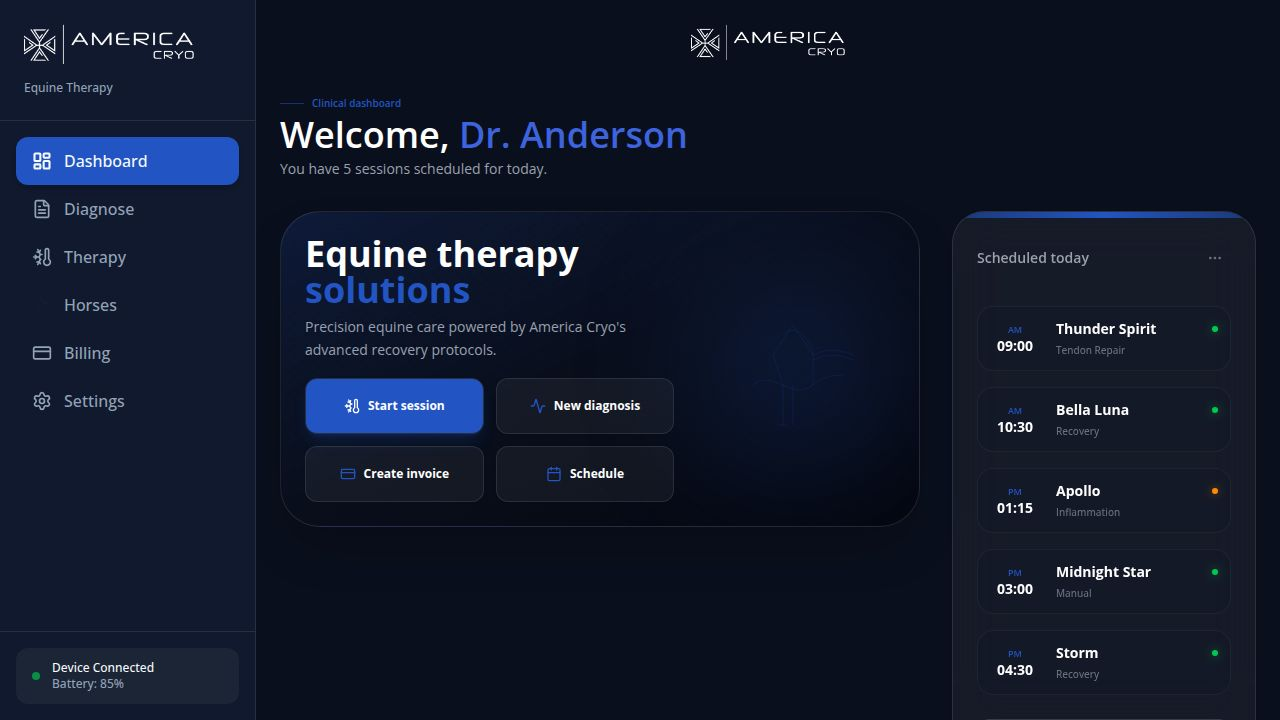
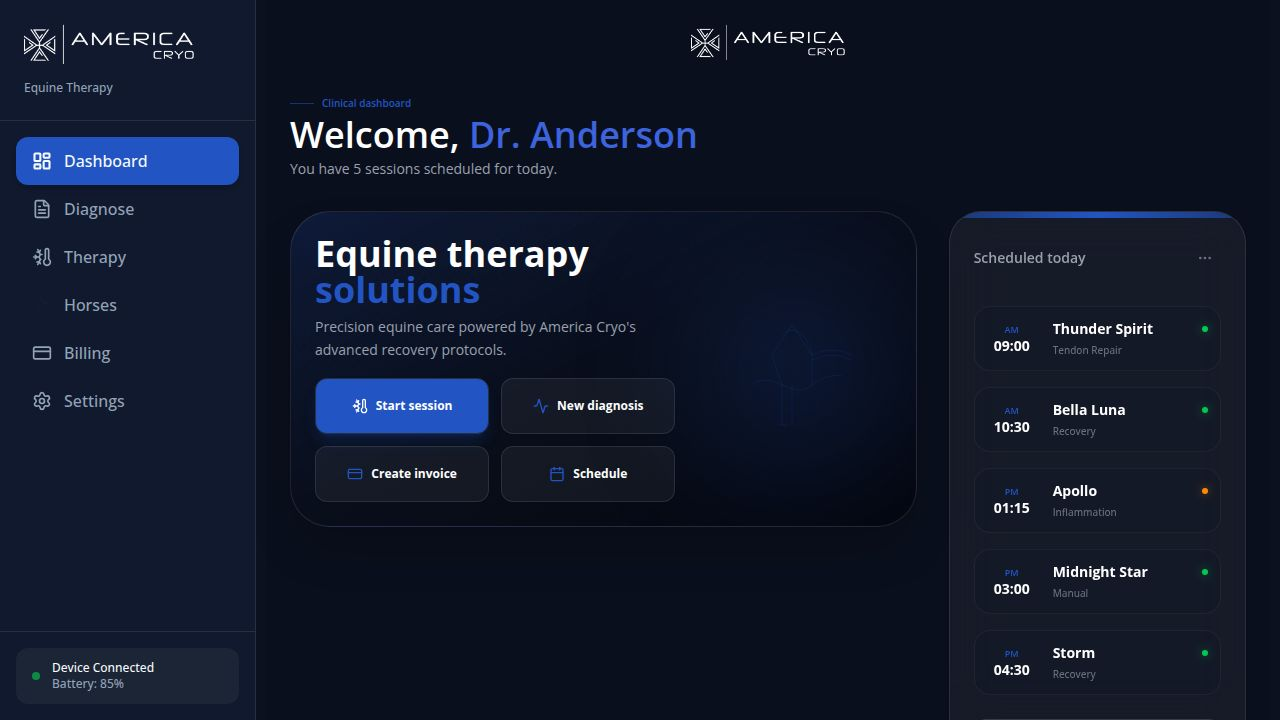
Add consistent horizontal padding to all pages
Adds 10px horizontal padding to the main content area in App.tsx, ensuring uniform spacing across the application.

Replit-Commit-Author: Agent
Replit-Commit-Session-Id: 04462519-4576-4063-832d-1647d48735ab
Replit-Commit-Checkpoint-Type: full_checkpoint
Replit-Commit-Event-Id: d5055585-73d3-4a6d-a6dc-1da9657f4b7e
Replit-Commit-Screenshot-Url: https://storage.googleapis.com/screenshot-production-us-central1/ae2f9a35-1080-45a9-9c55-8bf065662328/04462519-4576-4063-832d-1647d48735ab/FrzredX
Replit-Helium-Checkpoint-Created: true

diff --git a/client/src/App.tsx b/client/src/App.tsx
@@ -24,7 +24,7 @@ function Router() {
   return (
     <div className="flex h-screen bg-background flex-col md:flex-row overflow-hidden">
       <Sidebar />
-      <main className="flex-1 h-full overflow-y-auto overflow-x-hidden touch-pan-y scroll-smooth overscroll-contain pb-20 md:pb-0">
+      <main className="flex-1 h-full overflow-y-auto overflow-x-hidden touch-pan-y scroll-smooth overscroll-contain pb-20 md:pb-0 px-[10px]">
         <Switch>
           <Route path="/" component={Dashboard} />
           <Route path="/horses" component={Horses} />
